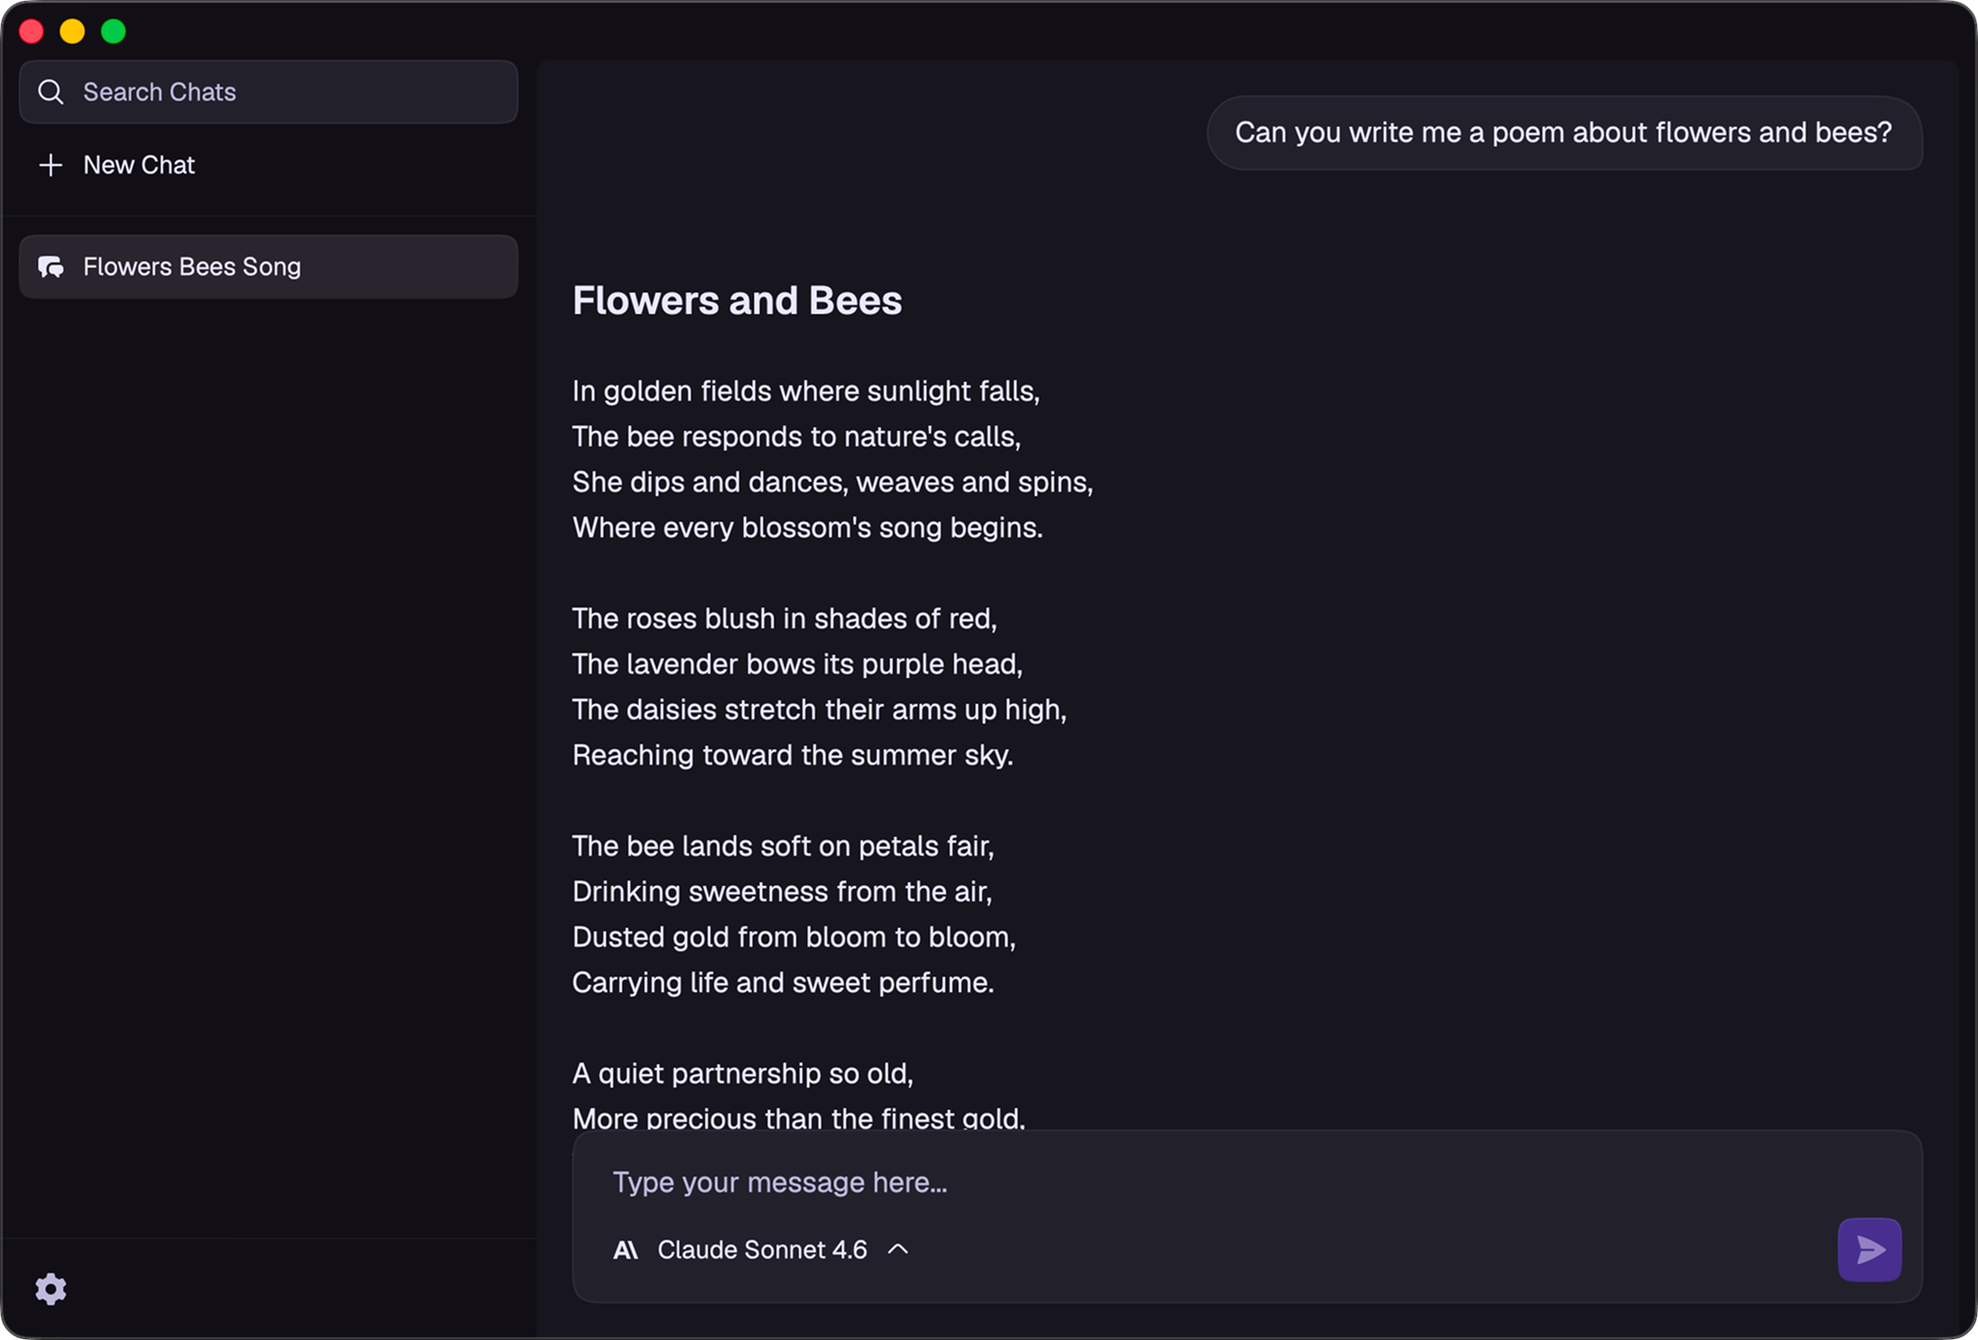
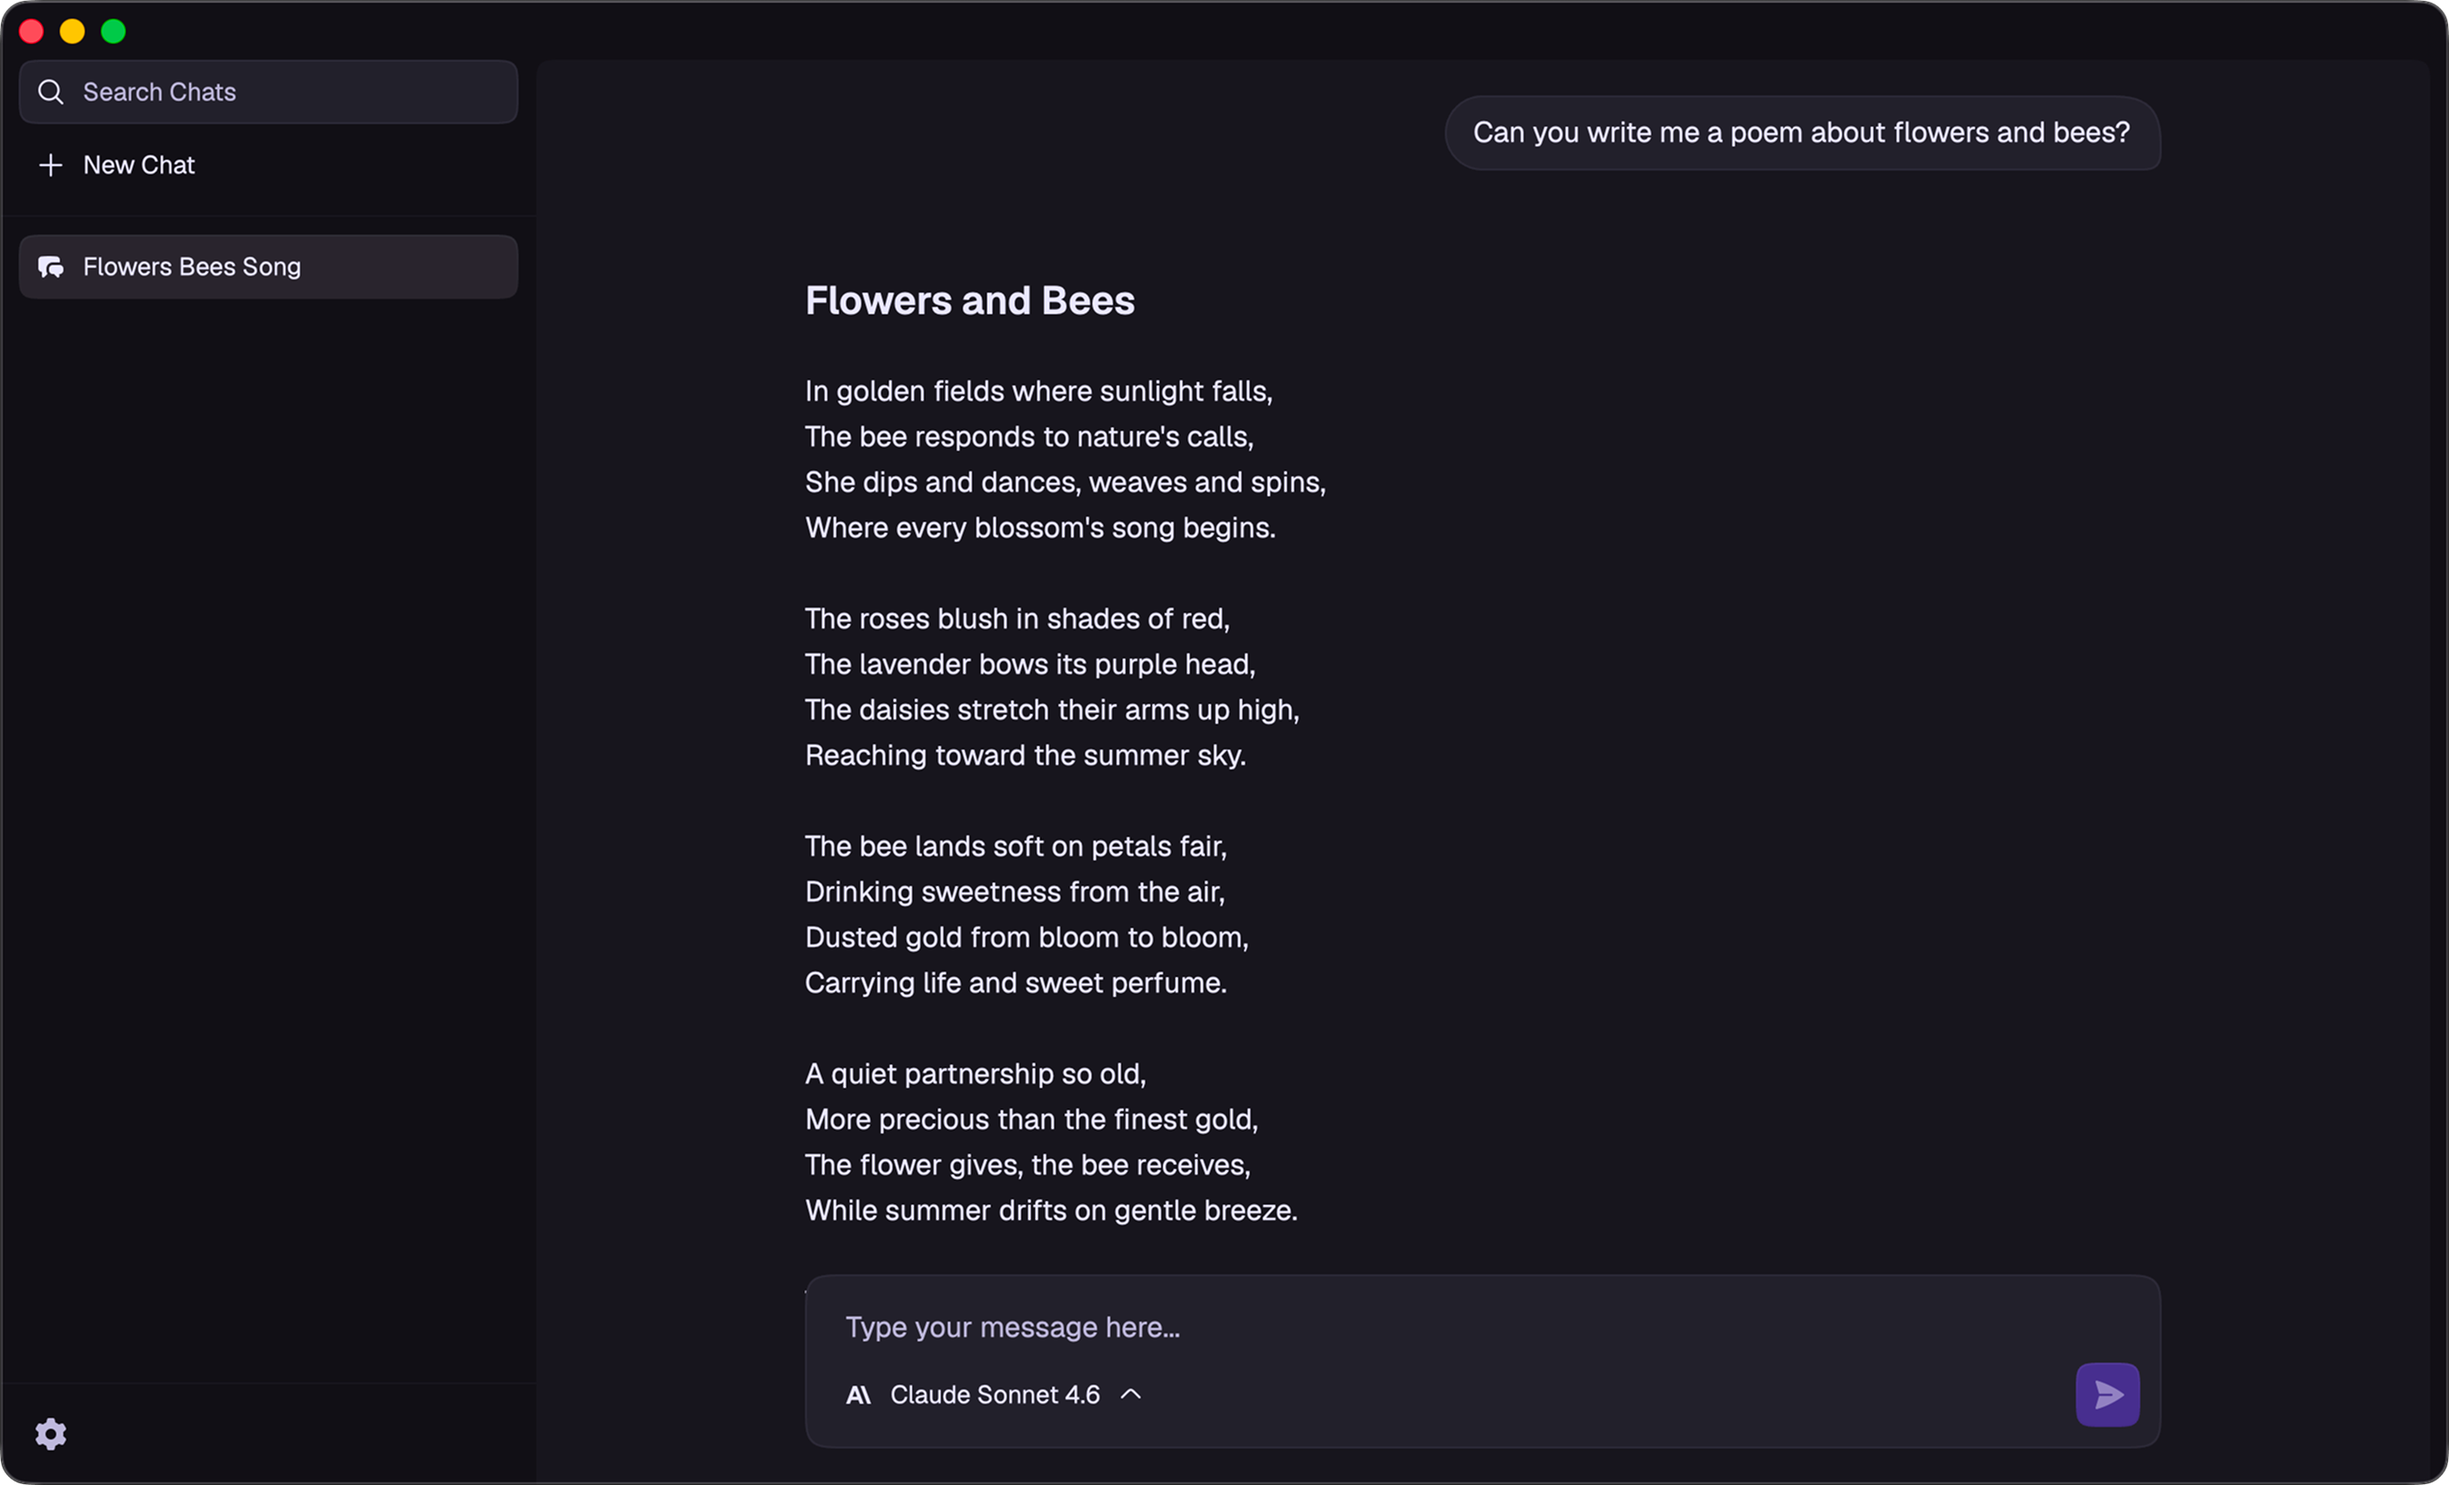
updated demo image to be wider

diff --git a/src/views/chat/blocks/chat_area/mod.rs b/src/views/chat/blocks/chat_area/mod.rs
@@ -174,6 +174,7 @@ fn chat_box(elem: &ChatArea, window: &mut Window, cx: &mut App) -> Input {
                                         .parameters
                                         .read(cx)
                                         .as_ref()
+                                        .filter(|p| !p.is_empty())
                                         .map(|p| ModelParams::new(p));
                                     let quantization = managers
                                         .models
@@ -181,6 +182,7 @@ fn chat_box(elem: &ChatArea, window: &mut Window, cx: &mut App) -> Input {
                                         .quantization
                                         .read(cx)
                                         .as_ref()
+                                        .filter(|q| !q.is_empty())
                                         .map(|q| ModelQuant::new(q));
                                     Model {
                                         id,

diff --git a/src/blocks/models_menu.rs b/src/blocks/models_menu.rs
@@ -308,10 +308,11 @@ pub fn create_models_select_state(
     if let Some(selection) = initial_selection {
         let display_name = Model {
             id: selection.model_id.clone(),
-            parameters: selection.parameters.as_deref().map(|p| ModelParams::new(p)),
+            parameters: selection.parameters.as_deref().filter(|p| !p.is_empty()).map(|p| ModelParams::new(p)),
             quantization: selection
                 .quantization
                 .as_deref()
+                .filter(|q| !q.is_empty())
                 .map(|q| ModelQuant::new(q)),
         }
         .to_string();
